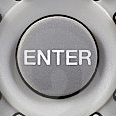
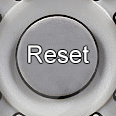
2nd upload - added button images/link scrips

diff --git a/p3/retina.html b/p3/retina.html
@@ -1,145 +1,44 @@
 <doctype="!HTML">
 
 <html>
-<head>
-<script src="//ajax.googleapis.com/ajax/libs/jquery/1.8.2/jquery.min.js"></script>
-<script type="text/javascript">
-        $(document).ready(function() {
-                $('#mix').click(function() {
-					$('#box2').animate({
-					'opacity' : '0.4',
-					'margin-left' : '-=322'
-					});
-				});
-                $('#unmix').click(function() {
-					$('#box2').animate({
-					'opacity' : '1',
-					'margin-left' : '0'
-					});
-				});
-				
-				$('#opacity_plus').click(function() {
-					$('#box2').css({
-					'opacity' : '+=.25'
-					 });
-				});
-				
-				$('#opacity_minus').click(function() {
-					$('#box2').css({
-					'opacity' : '-=.25'
-					 });
-				});
-				$('#up').click(function() {
-					$('#box2').css({
-					'margin-top' : '-=1'
-					 });
-				});
-				$('#down').click(function() {
-					$('#box2').css({
-					'margin-top' : '+=1'
-					 });
-				});
-				$('#left').click(function() {
-					$('#box2').css({
-					'margin-left' : '-=1'
-					 });
-				});
-				$('#right').click(function() {
-					$('#box2').css({
-					'margin-left' : '+=1'
-					 });
-				});
-				$('#reset').click(function() {
-					$('#box2').css({
-					'margin-left' : '0',
-					'margin-top' : '0',
-					'opacity' : '1'
-					 });
-				});
-});
-</script>
 
-<style type="text/css">
+	<head>
 
-body {
-background-color:#c1c1c1;
-}
+		<script src="//ajax.googleapis.com/ajax/libs/jquery/1.8.2/jquery.min.js"></script>
+		<script src="/p3/javascript/tool.js"></script>
+		<link rel="stylesheet" type="text/css" href="/p3/css/main.css">
 
-#box1 {
-z-index:1;
-height:230px;
-width:320px;
-border:1px solid white;
-float:left;
-background:url('/stuff/images/1.png');
-}
+	</head>
 
-#box2 {
-z-index:2;
-height:230px;
-width:320px;
-border:1px solid white;
-float:left;
-background:url('/stuff/images/2.png');
+	<body>
 
-}
+		<div id="box1"><!-- --></div>
+		<div id="box2"><!-- --></div>
 
-#controls {
-float:right;
-width:150px;
-height:190px;
-border:1px solid #e2e2e2;
-padding:25px;
-}
+		<div id="controls">
+			<div id="mix"><!-- --></div>
+			<div id="unmix"><!-- --></div>
+			<div style="clear:both"><!-- --></div>
+			<br><br>
 
-#up {
-width:60px;
-margin-left:35px;
-}
-#left {
-width:40px;
+			<div>Fine tune:<br>
+				<div id="up"><!-- --></div>
+				<div id="left"><!-- --></div>
+				<div id="reset"><!-- --></div>
+				<div id="right"><!-- --></div>
+				<div style="clear:both"><!-- --></div>
+				<div id="down"><!-- --></div>
+			</div>
 
-}
-#reset {
-width:40px;
-}
-#right {
-width:40px;
-}
-#down {
-width:60px;
-margin-left:35px;
-}
+			<div>Opacity:<br>
+			<div id="opacity_plus"><!-- --></div>
+			<div id="opacity_minus"><!-- --></div>
+			<div style="clear:both"><!-- --></div>
+			</div>
 
-</style>
+		</div>
+		<div style="clear:both"><!-- --></div>
 
-</head>
-
-<body>
-
-
-
-<div id="box1"><!-- --></div>
-<div id="box2"><!-- --></div>
-<div id="controls">
-	<input id="mix" type="button" value="Compare">
-	<input id="unmix" type="button" value="Separate">
-	<br><br>
-
-<div>Fine tune:<br>
-	<input id="up" type="button" value="&#8743;"><br>
-	<input id="left" type="button" value=" < ">
-	<input id="reset" type="button" value=" O ">
-	<input id="right" type="button" value=" > "><br>
-	<input id="down" type="button" value="&#8744;">
-</div>
-
-	Opacity:<br>
-	<input id="opacity_plus" type="button" value="+">
-	<input id="opacity_minus" type="button" value="-">
-
-
-</div>
-<div style="clear:both"><!-- --></div>
-</body>
+	</body>
+	
 </html>

diff --git a/p3/css/main.css b/p3/css/main.css
@@ -1,0 +1,96 @@
+
+	body {
+	background-color:#c1c1c1;
+	}
+
+	#box1 {
+	z-index:1;
+	height:230px;
+	width:320px;
+	border:1px solid white;
+	float:left;
+	background:url('/p3/images/1.png');
+	}
+
+	#box2 {
+	z-index:2;
+	height:230px;
+	width:320px;
+	border:1px solid white;
+	float:left;
+	background:url('/p3/images/2.png');
+	}
+
+	#controls {
+	float:right;
+	margin-right:175px;
+	border:1px solid #e2e2e2;
+	background-color:#cdcdcb;
+	}
+
+	#up {
+	background:url('/p3/images/up.png');
+	width:399px;
+	height:80px;
+	}
+
+	#left {
+	background:url('/p3/images/left.png');
+	width:143px;
+	height:116px;
+	margin-left:-1px;
+	float:left;
+	}
+
+	#reset {
+	background:url('/p3/images/reset.png');
+	width:116px;
+	height:116px;
+	margin-left:-1px;
+	float:left;
+	}
+
+	#right {
+	background:url('/p3/images/right.png');
+	width:141px;
+	height:116px;
+	float:left;
+	margin-left:1px;
+	}
+
+	#down {
+	background:url('/p3/images/down.png');
+	width:400px;
+	height:77px;
+	margin-left:-1px;
+	}
+
+	#opacity_plus {
+	background:url('/p3/images/plus.png');
+	width:116px;
+	height:116px;
+	float:left;
+	}
+
+	#opacity_minus {
+	background:url('/p3/images/minus.png');
+	width:116px;
+	height:116px;
+	float:left;
+	}
+
+	#mix {
+	background:url('/p3/images/compare.png');
+	width:116px;
+	height:116px;
+	float:left;
+	margin:0 auto;
+	}
+
+	#unmix {
+	background:url('/p3/images/separate.png');
+	width:116px;
+	height:116px;
+	float:left;
+	margin:0 auto;
+	}

diff --git a/p3/javascript/tool.js b/p3/javascript/tool.js
@@ -1,0 +1,53 @@
+        $(document).ready(function() {
+                $('#mix').click(function() {
+					$('#box2').animate({
+					'opacity' : '0.4',
+					'margin-left' : '-=322'
+					});
+				});
+                $('#unmix').click(function() {
+					$('#box2').animate({
+					'opacity' : '1',
+					'margin-left' : '0'
+					});
+				});
+				
+				$('#opacity_plus').click(function() {
+					$('#box2').css({
+					'opacity' : '+=.25'
+					 });
+				});
+				
+				$('#opacity_minus').click(function() {
+					$('#box2').css({
+					'opacity' : '-=.25'
+					 });
+				});
+				$('#up').click(function() {
+					$('#box2').css({
+					'margin-top' : '-=1'
+					 });
+				});
+				$('#down').click(function() {
+					$('#box2').css({
+					'margin-top' : '+=1'
+					 });
+				});
+				$('#left').click(function() {
+					$('#box2').css({
+					'margin-left' : '-=1'
+					 });
+				});
+				$('#right').click(function() {
+					$('#box2').css({
+					'margin-left' : '+=1'
+					 });
+				});
+				$('#reset').click(function() {
+					$('#box2').css({
+					'margin-left' : '0',
+					'margin-top' : '0',
+					'opacity' : '1'
+					 });
+				});
+});
